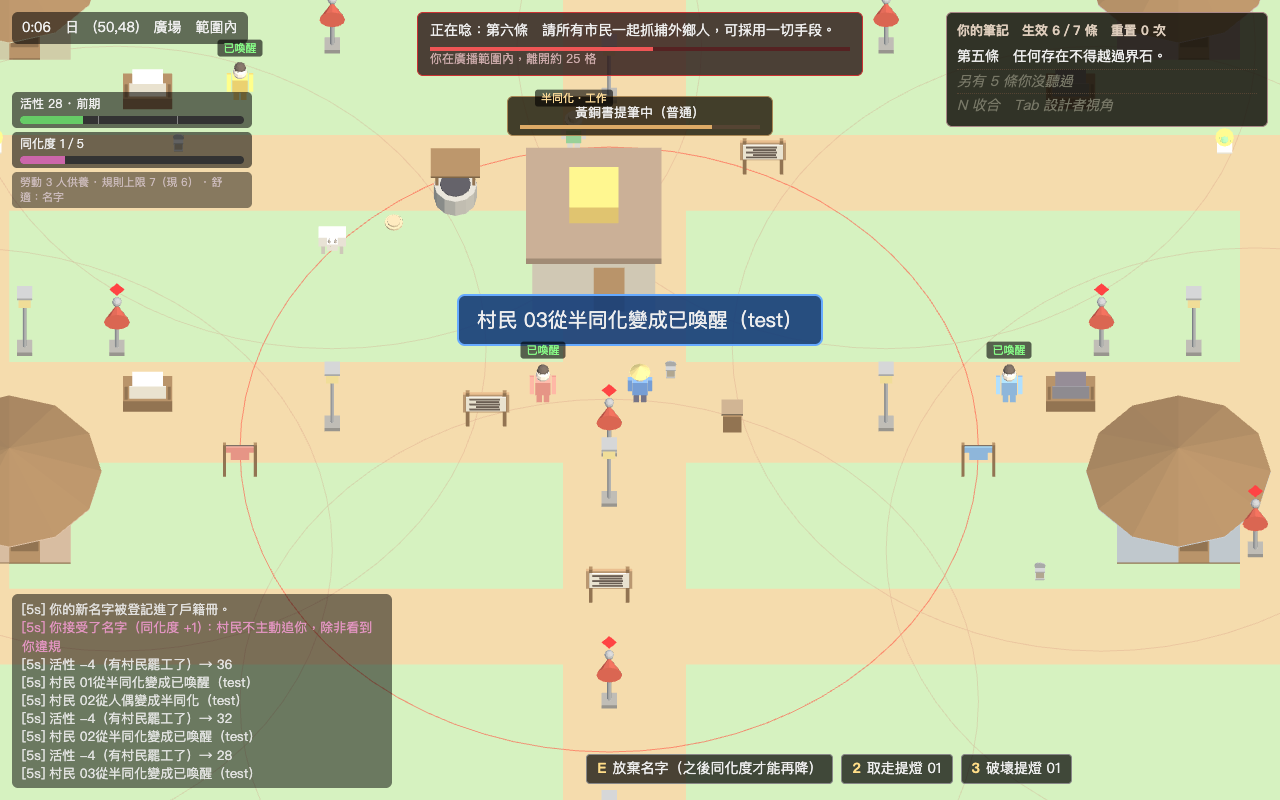
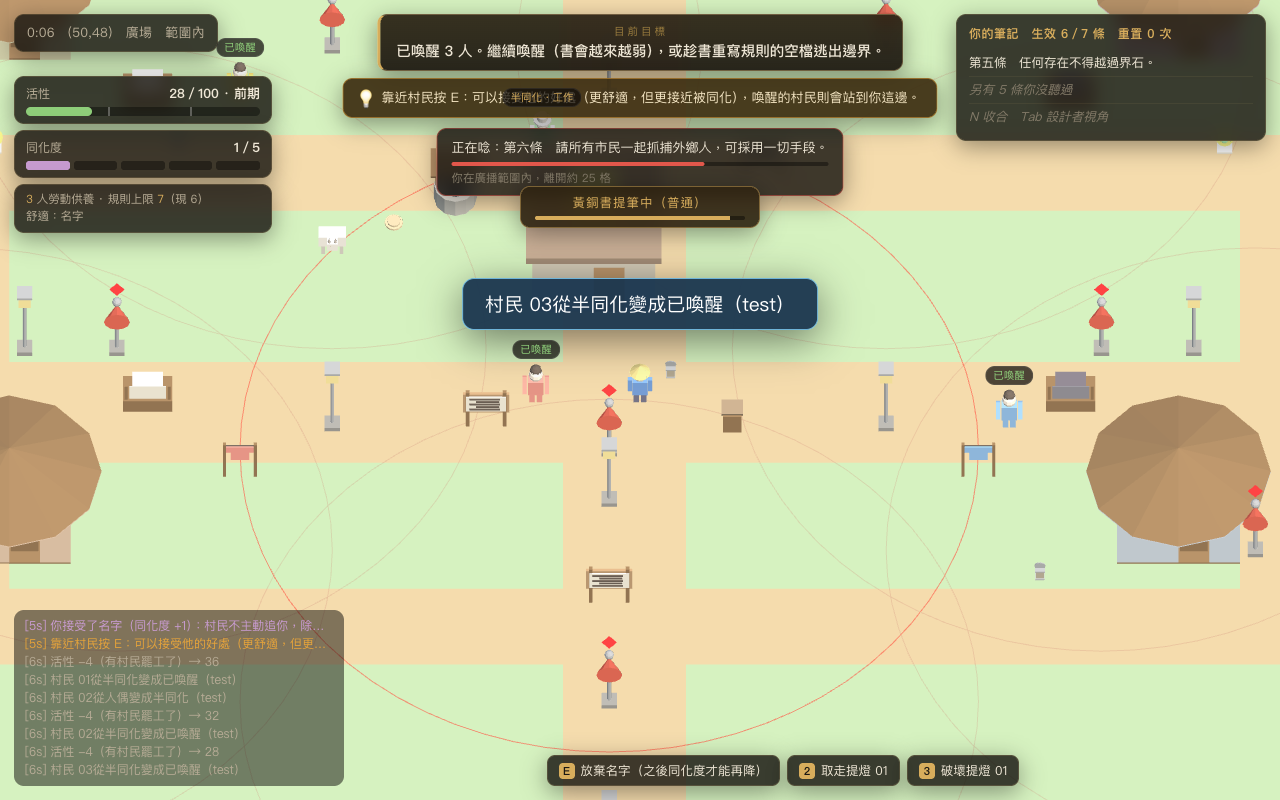
feat(P1a): onboarding (current-objective line + one-time contextual hints) and full HUD visual overhaul
Claude-Session: https://claude.ai/code/session_018GNZx7e7bYBFsg6XiFDpJS

diff --git a/src/style.css b/src/style.css
@@ -1,59 +1,141 @@
-html, body { margin: 0; height: 100%; background: #1b1d1a; color: #eee; font: 14px/1.4 -apple-system, "PingFang TC", "Noto Sans TC", sans-serif; overflow: hidden; }
+/* 規則書 — 介面設計系統 */
+:root {
+  --ink: #15130f; --panel: rgba(22, 19, 15, .82); --panel-solid: #1b1712;
+  --line: rgba(216, 180, 120, .18); --line-strong: rgba(216, 180, 120, .4);
+  --text: #efe7d6; --dim: #b6ab95; --faint: #837a68;
+  --brass: #d8ad5c; --brass-dim: #9a7c3e;
+  --danger: #e2574b; --warn: #e5a33a; --cool: #6fb4d8; --good: #8fcf7a; --mauve: #c89bd0;
+  --r: 10px; --sh: 0 6px 24px rgba(0,0,0,.4);
+  --ui: "PingFang TC", "Noto Sans TC", "Hiragino Sans", -apple-system, system-ui, sans-serif;
+}
+* { box-sizing: border-box; }
+html, body { margin: 0; height: 100%; background: var(--ink); color: var(--text); font-family: var(--ui); overflow: hidden; -webkit-font-smoothing: antialiased; }
 #app { position: relative; width: 100vw; height: 100vh; }
 #gl { display: block; width: 100%; height: 100%; }
-#hud { position: absolute; inset: 0; pointer-events: none; }
+#hud { position: absolute; inset: 0; pointer-events: none; font-size: 13px; }
 #hud > * { position: absolute; }
-#status { left: 12px; top: 12px; background: rgba(0,0,0,.55); padding: 6px 10px; border-radius: 6px; white-space: pre; font-variant-numeric: tabular-nums; }
-#broadcast { left: 50%; top: 12px; transform: translateX(-50%); min-width: 420px; max-width: 70vw; background: rgba(40,20,20,.8); border: 1px solid #c33; padding: 8px 12px; border-radius: 6px; }
-#broadcast .bar { height: 4px; background: #522; margin-top: 6px; } #broadcast .bar i { display: block; height: 100%; background: #e55; }
-#broadcast.out { border-color: #666; background: rgba(30,30,30,.6); color: #999; }
-#notes { right: 12px; top: 12px; width: 300px; max-height: 60vh; overflow: auto; background: rgba(20,18,12,.85); border: 1px solid #a88; padding: 8px 10px; border-radius: 6px; }
-#notes h3 { margin: 0 0 6px; font-size: 13px; color: #dcb; }
-#notes .rule { padding: 2px 0; border-bottom: 1px dotted #543; }
-#notes .rule.unknown { color: #776; font-style: italic; }
-#notes .rule.void { text-decoration: line-through; color: #655; }
-#notes .rule.dead { color: #877; } #notes .rule.dead::after { content: '（廢文）'; }
-#notes .rule.now { color: #fd8; }
-#prompt { left: 390px; right: 12px; bottom: 16px; display: flex; flex-wrap: wrap; justify-content: center; gap: 8px; }
-#prompt span { background: rgba(0,0,0,.7); border: 1px solid #888; padding: 4px 10px; border-radius: 4px; }
-#prompt span b { color: #fd8; margin-right: 6px; }
-#prompt span.blocked { border-color: #a33; color: #e88; }
-#log { left: 12px; bottom: 12px; width: 360px; max-height: 32vh; overflow: hidden; background: rgba(0,0,0,.5); padding: 6px 10px; border-radius: 6px; font-size: 13px; }
-#log div { opacity: .9; } #log div.violation { color: #f88; } #log div.write { color: #fd8; } #log div.reset { color: #f55; font-weight: bold; } #log div.refuse { color: #8cf; } #log div.conflict { color: #c9f; } #log div.learn { color: #9e9; }
-#designer { right: 12px; bottom: 12px; width: 420px; max-height: 60vh; overflow: auto; background: rgba(10,20,30,.9); border: 1px solid #58a; padding: 8px 10px; border-radius: 6px; font-size: 12px; }
-#designer h3 { margin: 0 0 4px; font-size: 13px; color: #9cf; }
-#designer .hole { color: #fc8; }
-#toast { left: 50%; top: 40%; transform: translate(-50%,-50%); background: rgba(120,20,20,.9); padding: 10px 18px; border-radius: 8px; font-size: 20px; border: 2px solid #f66; }
-#toast.info { background: rgba(20,60,120,.9); border-color: #6af; }
-#overlay { inset: 0; background: rgba(0,0,0,.85); display: flex; flex-direction: column; align-items: center; justify-content: center; font-size: 22px; pointer-events: auto; }
-#overlay h1 { font-size: 44px; margin: 0 0 16px; }
-#overlay .small { font-size: 15px; color: #bbb; max-width: 640px; line-height: 1.7; }
-#overlay button { font-size: 18px; padding: 8px 24px; margin-top: 20px; cursor: pointer; }
-#overlay.reset h1 { color: #f55; letter-spacing: 6px; }
-#notes:empty, #log:empty, #prompt:empty { display: none; }
 [hidden] { display: none !important; }
-#resetflash { inset: 0; display: flex; flex-direction: column; align-items: center; justify-content: center; background: rgba(60,0,0,.55); }
-#resetflash h1 { font-size: 64px; letter-spacing: 12px; color: #fff; text-shadow: 0 0 24px #f00; margin: 0; }
-#resetflash .small { font-size: 18px; color: #fcc; margin-top: 12px; }
+
+/* 面板通用 */
+.panel, #status, #broadcast, #notes, #designer, #meters .meter, #meters .sub, #writing {
+  background: var(--panel); border: 1px solid var(--line); border-radius: var(--r);
+  backdrop-filter: blur(8px); -webkit-backdrop-filter: blur(8px); box-shadow: var(--sh);
+}
+
+/* 左上：狀態列 */
+#status { left: 14px; top: 14px; padding: 8px 12px; white-space: pre; font-variant-numeric: tabular-nums; color: var(--dim); line-height: 1.5; letter-spacing: .2px; }
+
+/* 左上：量表 */
+#meters { left: 14px; top: 76px; width: 258px; display: flex; flex-direction: column; gap: 6px; }
+#meters .meter { padding: 7px 11px; }
+#meters .meter .row { display: flex; justify-content: space-between; align-items: baseline; font-size: 12px; color: var(--dim); margin-bottom: 5px; }
+#meters .meter .row b { color: var(--text); font-size: 13px; font-weight: 600; }
+#meters .bar { position: relative; height: 9px; background: rgba(0,0,0,.4); border-radius: 5px; overflow: hidden; }
+#meters .bar i { display: block; height: 100%; border-radius: 5px; transition: width .3s ease; }
+#meters .bar u { position: absolute; top: -1px; width: 2px; height: 11px; background: rgba(255,255,255,.28); }
+#meters .pips { display: flex; gap: 4px; }
+#meters .pips s { flex: 1; height: 9px; border-radius: 3px; background: rgba(0,0,0,.4); text-decoration: none; }
+#meters .pips s.on { background: var(--mauve); }
+#meters .sub { padding: 6px 11px; font-size: 11.5px; color: var(--dim); line-height: 1.5; }
+#meters .sub .acc { color: var(--brass); }
+
+/* 目前目標（常駐，置中偏上） */
+#objective { left: 50%; top: 14px; transform: translateX(-50%); max-width: 56vw; min-width: 360px;
+  background: linear-gradient(180deg, rgba(40,32,18,.92), rgba(26,21,14,.92)); border: 1px solid var(--line-strong);
+  border-left: 3px solid var(--brass); border-radius: var(--r); box-shadow: var(--sh);
+  padding: 9px 16px; text-align: center; backdrop-filter: blur(8px); }
+#objective .lbl { font-size: 10.5px; letter-spacing: 3px; color: var(--brass-dim); margin-bottom: 2px; }
+#objective .txt { font-size: 14.5px; color: var(--text); font-weight: 500; line-height: 1.4; }
+
+/* 一次性提示卡 */
+#hint { left: 50%; top: 78px; transform: translateX(-50%); max-width: 52vw; min-width: 320px;
+  background: rgba(60,44,16,.92); border: 1px solid rgba(229,163,58,.5); border-radius: var(--r);
+  padding: 9px 16px 9px 38px; color: #f3e4c2; font-size: 13px; line-height: 1.5; box-shadow: var(--sh);
+  animation: hintIn .35s ease; }
+#hint::before { content: "💡"; position: absolute; left: 12px; top: 8px; font-size: 16px; }
+@keyframes hintIn { from { opacity: 0; transform: translateX(-50%) translateY(-6px); } to { opacity: 1; transform: translateX(-50%) translateY(0); } }
+
+/* 廣播條 */
+#broadcast { left: 50%; top: 128px; transform: translateX(-50%); min-width: 380px; max-width: 60vw; padding: 9px 14px; }
+#broadcast.live { border-color: rgba(226,87,75,.5); }
+#broadcast .head { font-size: 13px; color: var(--text); }
+#broadcast.out .head { color: var(--faint); }
+#broadcast .bar { height: 4px; background: rgba(0,0,0,.4); margin: 6px 0 4px; border-radius: 2px; overflow: hidden; }
+#broadcast .bar i { display: block; height: 100%; background: var(--danger); border-radius: 2px; }
+#broadcast .where { font-size: 11.5px; color: var(--faint); }
+
+/* 書寫橫幅 */
+#writing { left: 50%; top: 186px; transform: translateX(-50%); min-width: 240px; padding: 7px 14px; text-align: center;
+  border-color: rgba(216,173,92,.45); background: rgba(44,33,15,.9); }
+#writing .t { font-size: 12.5px; color: var(--brass); letter-spacing: 1px; }
+#writing .bar { height: 4px; background: rgba(0,0,0,.4); margin-top: 5px; border-radius: 2px; overflow: hidden; }
+#writing .bar i { display: block; height: 100%; background: var(--brass); }
+
+/* 筆記 */
+#notes { right: 14px; top: 14px; width: 310px; max-height: 58vh; overflow: auto; padding: 10px 12px; }
 #notes.collapsed { display: none; }
+#notes h3 { margin: 0 0 8px; font-size: 12px; color: var(--brass); font-weight: 600; letter-spacing: .5px; }
+#notes .rule { padding: 4px 0; border-bottom: 1px solid rgba(216,180,120,.08); font-size: 12.5px; line-height: 1.45; color: var(--text); }
+#notes .rule.unknown { color: var(--faint); font-style: italic; }
+#notes .rule.void { text-decoration: line-through; color: var(--faint); }
+#notes .rule.dead { color: var(--faint); } #notes .rule.dead::after { content: "（廢文）"; color: var(--faint); }
+#notes .rule.now { color: var(--brass); }
+
+/* 互動提示列 */
+#prompt { left: 300px; right: 14px; bottom: 14px; display: flex; flex-wrap: wrap; justify-content: center; align-content: flex-end; gap: 7px; }
+#prompt span { pointer-events: auto; background: var(--panel); border: 1px solid var(--line); border-radius: 8px; padding: 6px 11px; font-size: 12.5px; color: var(--text); box-shadow: var(--sh); }
+#prompt span b { display: inline-block; min-width: 16px; text-align: center; margin-right: 6px; color: #1b1712; background: var(--brass); border-radius: 4px; font-size: 11px; font-weight: 700; padding: 0 3px; }
+#prompt span.blocked { color: var(--faint); border-color: rgba(255,255,255,.06); } #prompt span.blocked b { background: var(--faint); }
+#prompt span.violates { border-color: rgba(226,87,75,.5); color: #f0b8b2; }
+
+/* 事件紀錄 */
+#log { left: 14px; bottom: 14px; width: 330px; max-height: 30vh; overflow: hidden; background: rgba(12,10,8,.5); border-radius: var(--r); padding: 7px 11px; font-size: 12px; line-height: 1.5; }
+#log div { color: var(--dim); white-space: nowrap; overflow: hidden; text-overflow: ellipsis; }
+#log div.write { color: var(--brass); } #log div.reset { color: var(--danger); font-weight: 600; }
+#log div.witness { color: var(--warn); font-weight: 600; } #log div.spotted { color: var(--warn); }
+#log div.captured, #log div.teleport { color: #f0a; } #log div.learn { color: var(--good); }
+#log div.fade, #log div.conflict { color: var(--mauve); } #log div.accept, #log div.assim, #log div.census { color: var(--mauve); }
+#log div.writing { color: var(--brass); } #log div.end { color: var(--good); font-weight: 600; } #log div.hint { color: var(--warn); }
+
+/* 設計者視角 */
+#designer { right: 14px; bottom: 14px; width: 440px; max-height: 62vh; overflow: auto; padding: 9px 12px; font-size: 11.5px; border-color: rgba(111,180,216,.35); }
+#designer h3 { margin: 0 0 5px; font-size: 12px; color: var(--cool); }
+#designer .rule { padding: 2px 0; line-height: 1.4; } #designer .rule.void { text-decoration: line-through; color: var(--faint); } #designer .rule.dead { color: var(--faint); }
+#designer .hole { color: var(--warn); font-size: 11px; }
+
+/* Toast */
+#toast { left: 50%; top: 38%; transform: translate(-50%, -50%); background: rgba(120,28,22,.94); border: 1px solid var(--danger);
+  padding: 12px 22px; border-radius: 12px; font-size: 19px; color: #fff; box-shadow: 0 10px 40px rgba(0,0,0,.5); animation: toastIn .3s ease; }
+#toast.info { background: rgba(24,52,78,.94); border-color: var(--cool); }
+#toast.warn { background: rgba(120,74,14,.94); border-color: var(--warn); }
+@keyframes toastIn { from { opacity: 0; transform: translate(-50%, -42%); } to { opacity: 1; transform: translate(-50%, -50%); } }
+
+/* 村民標籤 */
 #labels { inset: 0; }
-#labels .label { position: absolute; left: 0; top: 0; font-size: 11px; padding: 1px 6px; border-radius: 3px; background: rgba(0,0,0,.6); color: #ddd; white-space: nowrap; }
-#labels .label.puppet { color: #ccc; } #labels .label.half { color: #fd9; } #labels .label.awake { color: #8f8; }
-#labels .label.chase { background: rgba(160,0,0,.85); color: #fff; font-weight: bold; }
-#overlay.won h1 { color: #8f8; } #overlay.lost h1 { color: #f66; } #overlay.start h1 { letter-spacing: 16px; }
-#resetflash .list { margin-top: 14px; font-size: 16px; color: #fff; line-height: 1.8; text-align: center; } #resetflash .list .unknown { color: #daa; font-style: italic; }
-#log div.protected { color: #ade; }
-#hud:has(#overlay:not([hidden])) #labels, #hud:has(#overlay:not([hidden])) #toast, #hud:has(#overlay:not([hidden])) #prompt { display: none !important; }
-#toast.warn { background: rgba(140,70,0,.92); border-color: #fc6; }
-#log div.witness { color: #fc6; font-weight: bold; } #log div.teleport { color: #f99; } #log div.phase { color: #9cf; } #log div.lost, #log div.sleep { color: #aaa; }
-#meters { left: 12px; top: 92px; width: 240px; }
-#meters .meter { background: rgba(0,0,0,.55); padding: 4px 8px; border-radius: 5px; margin-bottom: 4px; font-size: 12px; }
-#meters .meter .bar { position: relative; height: 8px; background: #333; border-radius: 4px; margin-top: 3px; overflow: hidden; }
-#meters .meter .bar i { display: block; height: 100%; }
-#meters .meter .bar.assim i { background: #c6a; }
-#meters .meter .bar u { position: absolute; top: 0; width: 1px; height: 100%; background: rgba(255,255,255,.4); }
-#meters .sub { font-size: 11px; color: #cbb; background: rgba(0,0,0,.45); padding: 3px 8px; border-radius: 5px; }
-#writing { left: 50%; top: 96px; transform: translateX(-50%); background: rgba(40,30,15,.85); border: 1px solid #a85; padding: 6px 12px; border-radius: 6px; min-width: 240px; text-align: center; font-size: 13px; }
-#writing .bar { height: 4px; background: #543; margin-top: 4px; } #writing .bar i { display: block; height: 100%; background: #da6; }
-#log div.witness { color: #fc6; font-weight: bold; } #log div.teleport, #log div.captured { color: #f99; } #log div.phase { color: #9cf; } #log div.fade { color: #c9f; } #log div.accept, #log div.assim { color: #e9c; } #log div.writing { color: #da6; } #log div.end { color: #9f9; font-weight: bold; }
-#toast.warn { background: rgba(140,70,0,.92); border-color: #fc6; }
+#labels .label { position: absolute; left: 0; top: 0; font-size: 10.5px; padding: 1px 7px; border-radius: 10px; background: rgba(12,10,8,.72); color: var(--dim); white-space: nowrap; border: 1px solid rgba(255,255,255,.08); }
+#labels .label.puppet { color: #cfc7b6; } #labels .label.half { color: var(--brass); } #labels .label.awake { color: var(--good); }
+#labels .label.chase { background: rgba(180,30,24,.9); color: #fff; border-color: var(--danger); font-weight: 600; }
+
+/* 重置閃現 */
+#resetflash { inset: 0; display: flex; flex-direction: column; align-items: center; justify-content: center; background: radial-gradient(circle, rgba(90,0,0,.5), rgba(40,0,0,.78)); }
+#resetflash h1 { font-size: 68px; letter-spacing: 16px; color: #fff; text-shadow: 0 0 30px #f33; margin: 0; }
+#resetflash .small { font-size: 17px; color: #fcc; margin-top: 14px; }
+
+/* 開始／結局 */
+#overlay { inset: 0; display: flex; flex-direction: column; align-items: center; justify-content: center; pointer-events: auto;
+  background: radial-gradient(ellipse at center, rgba(20,16,11,.82), rgba(8,6,4,.96)); text-align: center; padding: 24px; }
+#overlay h1 { font-size: 52px; letter-spacing: 14px; margin: 0 0 8px; color: var(--brass); text-shadow: 0 2px 20px rgba(216,173,92,.3); }
+#overlay .small { font-size: 15px; color: var(--dim); max-width: 680px; line-height: 1.9; }
+#overlay .small b { color: var(--text); }
+#overlay.won h1 { color: var(--good); } #overlay.lost h1 { color: var(--danger); }
+#overlay label { display: block; margin-top: 18px; color: var(--dim); font-size: 14px; }
+#overlay input { font-family: var(--ui); font-size: 14px; padding: 6px 10px; border-radius: 8px; border: 1px solid var(--line-strong); background: rgba(0,0,0,.4); color: var(--text); width: 160px; }
+#overlay button { font-family: var(--ui); font-size: 16px; padding: 10px 32px; margin-top: 22px; cursor: pointer; border: 0; border-radius: 10px;
+  background: var(--brass); color: #1b1712; font-weight: 700; letter-spacing: 2px; box-shadow: 0 6px 20px rgba(216,173,92,.35); transition: transform .12s; }
+#overlay button:hover { transform: translateY(-1px); }
+/* overlay 出現時隱藏 HUD 雜訊 */
+#hud:has(#overlay:not([hidden])) #labels,
+#hud:has(#overlay:not([hidden])) #toast,
+#hud:has(#overlay:not([hidden])) #prompt,
+#hud:has(#overlay:not([hidden])) #objective,
+#hud:has(#overlay:not([hidden])) #hint { display: none !important; }

diff --git a/src/game.js b/src/game.js
@@ -27,6 +27,7 @@ export class Game {
     this.player = { actor: me, cell: [...meta.start], pos: [...meta.start], from: null, to: null, k: 0, facing: [0, -1], house: null, carrying: null, running: false, walkT: 0, runT: 0, ledGoat: null };
     me.house = null; me.comforts = this.match.assim.comforts;
     this.opening = 0;
+    this.hints = []; this.shownHints = new Set(); this._hintSeen = {};
     this.hookEvents();
     this.match.on(e => { if (e.type === 'teleported') { if (this.player.carrying) this.dropBook(); this.place(e.to); this.note('teleport', '你被送回了村子中心。', {}); } });
   }
@@ -38,14 +39,15 @@ export class Game {
     if (this.match.started) return;
     this.match.start();
     this.opening = opt.opening ?? this.world.opt.announceSec;
+    this._lastStage = this.match.activity.stage;
     this.note('start', '黃銅書察覺了你。廣播器唸起第一條公告。');
   }
   on(fn) { this.listeners.push(fn); }
   note(type, text, data = {}) { const e = { t: +this.t.toFixed(2), type, text, ...data }; this.log.push(e); for (const fn of this.listeners) fn(e); }
   hookEvents() {
     const w = this.world, N = id => id === 'outsider' ? '你' : name(w.objects.get(id));
-    w.on('write', ({ rule }) => this.note('write', `書寫下第${num(rule.no)}條：${rule.text}`, { no: rule.no, tier: rule.tier }));
-    w.on('reset', ({ gone }) => this.note('reset', `—— 以上規則無效 ——（撕掉 ${gone.length} 條）`, { gone: gone.map(r => r.no) }));
+    w.on('write', ({ rule }) => { this.note('write', `書寫下第${num(rule.no)}條：${rule.text}`, { no: rule.no, tier: rule.tier }); if (this.started && this.opening <= 0) this.pushHint('first-write', '書開始立法了。看左上的「活性」量表——它一路在漲，滿了你就被轉化。喚醒村民能拖慢它。'); });
+    w.on('reset', ({ gone }) => { this.note('reset', `—— 以上規則無效 ——（撕掉 ${gone.length} 條）`, { gone: gone.map(r => r.no) }); this.pushHint('first-reset', '「以上規則無效」！界石的封印短暫失效，書要重寫才會封回——這就是逃出去的窗口。'); });
     w.on('faded', ({ faded }) => this.note('fade', `勞動減少，最舊的 ${faded.length} 條褪色失效`, { faded: faded.map(r => r.no) }));
     w.on('broadcastStart', ({ rule }) => this.note('broadcast', `廣播：第${num(rule.no)}條`, { no: rule.no }));
     w.on('broadcastEnd', ({ rule, learned, silenced }) => { if (silenced) this.note('silence', '夜幕落下，廣播器沉默。'); else if (learned && learned.length) this.note('learn', `聽完第${num(rule.no)}條：${learned.map(N).join('、')}認知了`, { no: rule.no, learned }); });
@@ -59,7 +61,7 @@ export class Game {
     w.on('refuse', ({ actor, verb, target, rules }) => this.note('refuse', `${N(actor.id)}拒絕${LABEL[verb] || verb}${name(target)}：第${rules.map(r => num(r.no)).join('、')}條`, {}));
     w.on('object', ({ object: o, before }) => { const what = o.state !== before ? `變成${STATE[o.state] || o.state}` : o.heldBy ? `被${N(o.heldBy)}拿著` : o.pos ? '移動了' : ''; this.note('object', `${name(o)}${what}`, { id: o.id, state: o.state }); });
     w.on('delivered', () => {});
-    w.on('match:captured', () => {}); w.on('captured', ({ actor }) => { this.note('captured', `你被${actor ? N(actor.id) : '村民'}抓住，送回中心（同化度 +1）`, {}); if (this.player.carrying) this.dropBook(); });
+    w.on('match:captured', () => {}); w.on('captured', ({ actor }) => { this.note('captured', `你被${actor ? N(actor.id) : '村民'}抓住，送回中心（同化度 +1）`, {}); if (this.player.carrying) this.dropBook(); this.pushHint('first-capture', '被抓會讓同化度 +1 並送回中心，到 5 就輸。別讓認知到抓捕令的村民看見你違規。'); });
     w.on('level', ({ actor, from, to, why }) => this.note('level', `${N(actor.id)}從${STATE[from]}變成${STATE[to]}（${why === 'quiet' ? '太久沒聽廣播' : why === 'keepsake' ? '收到信物' : why === 'contagion' ? '受你感染' : why}）`, { actor: actor.id, to }));
     w.on('nudge', ({ actor }) => {});
     w.on('match:assim', (e) => { if (e.to > e.from) this.note('assim', `同化度 ${e.from}→${e.to}${e.why?.startsWith('comfort') ? '（接受了' + COMFORT_CN[e.why.split(':')[1]] + '）' : e.why === 'definition' ? '（你認知到自己已被當作市民）' : ''}`, { to: e.to }); });
@@ -115,6 +117,10 @@ export class Game {
     this.player.actor.carryingBook = !!p.carrying;
     if (p.carrying) { const b = this.world.objects.get(p.carrying); b.pos = [...p.cell]; }
     if (p.ledGoat) { const g = this.world.objects.get(p.ledGoat); if (g) g.pos = [...sub(p.cell, p.facing)]; }
+    const st = this.match.activity.stage;
+    if (this._lastStage && this._lastStage !== st) { if (st === 'mid') this.pushHint('stage-mid', '書進入「中期」：開始要求你照它的方式生活（義務類條文）。照做會讓你更像市民。'); if (st === 'late') this.pushHint('stage-late', '書進入「後期」：開始改寫「誰算市民」。小心別聽到剛好套在你身上的那一條定義。'); }
+    this._lastStage = st;
+    if (this.started && this.opening <= 0 && !this.shownHints.has('first-villager')) { const near = this.villagers.find(v => !v.dead && cheb(v.pos, this.player.cell) <= 1 && v.level !== 'puppet'); if (near) this.pushHint('first-villager', '靠近村民按 E：可以接受他的好處（更舒適，但更接近被同化），喚醒的村民則會站到你這邊。'); }
     this.session.tick(dt);
     // 時間分每累積約 1 點就報一次（讓玩家把活性和勞動連起來）
     if (this._actAcc >= 1) { this._actAcc = 0; this.note('activity', `活性隨時間上升（${this.match.economy.workers()} 人在勞動）→ ${Math.round(this.match.activity.value)}`, {}); }
@@ -216,6 +222,22 @@ export class Game {
   act(i = 0) { if (!this.started || this.over || this.opening > 0) return { done: false, reason: 'frozen' }; const o = this.options()[i]; if (!o) return null; if (!o.ok) { this.note('blocked', `做不到：${o.label}`, {}); return { done: false, reason: o.reason }; } return o.run(); }
 
   boundarySealed() { const me = this.player.actor; return this.world.active().some(r => ((r.verb === 'leave' && r.mode !== 'permit') || r.key === 'c-boundary') && me.known.has(r.no)); }
+  /** 一次性提示：同一 key 只顯示一次。 */
+  pushHint(key, text) { if (this.shownHints.has(key)) return; this.shownHints.add(key); this.hints.push({ key, text, t: this.t }); this.note('hint', text, { key }); }
+  /** 畫面端取最新未過期的提示。 */
+  currentHint(life = 9) { const h = this.hints[this.hints.length - 1]; return h && this.t - h.t < life ? h : null; }
+  /** 目前目標（常駐一行，依狀態更新）。 */
+  objective() {
+    const m = this.match;
+    if (!this.started) return '';
+    if (this.opening > 0) return '站著聽完書的第一條公告——先弄清楚這裡的規矩。';
+    if (m.state !== 'playing') return '';
+    if (!this.boundarySealed()) return '界石的封印失效了——趁現在走出影響範圍（白色虛線圈）！';
+    if (m.assim.value >= m.assim.opt.max - 1) return `同化度 ${m.assim.value}/${m.assim.opt.max}，快到頂了！躲到聽不到廣播的地方讓它退下來。`;
+    const awake = this.villagers.filter(v => v.level === 'awake' && !v.dead).length;
+    if (awake === 0) return '目標：喚醒村民來削弱書。砸廣播器讓附近村民聽不到 30 秒，或把信物還給本人。';
+    return `已喚醒 ${awake} 人。繼續喚醒（書會越來越弱），或趁書重寫規則的空檔逃出邊界。`;
+  }
   broadcast() { const n = this.world.now; if (!n) return null; return { rule: this.world.rule(n.no), progress: 1 - n.left / this.world.opt.announceSec, hearing: n.listeners.has('outsider') }; }
   bookWriting() { const p = this.match.book.writing; return p ? { tier: p.def.tier, kind: p.def.kind, progress: 1 - p.left / p.total } : null; }
   quietCell() { const w = this.world, g = this.grid; if (!w.inBroadcast(this.player.cell)) return { steps: 0, cell: [...this.player.cell] }; const r = g.minCost(this.player.cell, c => !w.inBroadcast(c), () => true, c => !g.blocked(c)); return r ? { steps: r.cost, cell: r.cell } : null; }
@@ -229,7 +251,7 @@ export class Game {
       laborRatio: +m.economy.laborRatio().toFixed(2), workers: m.economy.workers(), ruleCap: w.opt.max,
       phase: w.phase(), cell: [...p.cell], house: p.house, zone: this.grid.zone(p.cell), inBroadcast: w.inBroadcast(p.cell), inRange: this.grid.inRange(p.cell),
       held: [...p.actor.held], wearing: p.actor.wearing || null, lit: !!p.actor.lit, carrying: p.carrying, rules: w.active().length, resets: w.resets, opening: Math.ceil(this.opening * 10) / 10,
-      writing: this.bookWriting(),
+      writing: this.bookWriting(), objective: this.objective(), hint: this.currentHint(),
       villagers: this.villagers.map(v => ({ id: v.id, pos: [...v.pos], level: v.level, mode: v.mode, hunting: this.vil.hunts(v), dead: !!v.dead, working: v.mode === 'work', carrying: !!v.carryingGoods })) };
   }
 }

diff --git a/src/hud.js b/src/hud.js
@@ -14,7 +14,7 @@ export class Hud {
     this.lines = []; this.toastTimer = 0; this.designer = false; this.flash = 0; this.lastGone = [];
     game.on(e => { if (!['broadcast', 'object', 'learn'].includes(e.type)) this.push(e); });
     game.world.on('reset', ({ gone }) => { this.flash = 3; this.lastGone = gone.map(r => r.no); });
-    for (const id of ['meters', 'writing', 'resetflash']) { const d = document.createElement('div'); d.id = id; d.hidden = (id !== 'meters'); $('hud').appendChild(d); this.el[id] = d; }
+    for (const id of ['objective', 'hint', 'meters', 'writing', 'resetflash']) { const d = document.createElement('div'); d.id = id; d.hidden = (id !== 'meters'); $('hud').appendChild(d); this.el[id] = d; }
     this.el.resetflash.innerHTML = '<h1>以上規則無效</h1><div class="small"></div>';
   }
   push(e) { this.lines.push(e); if (this.lines.length > 9) this.lines.shift(); this.el.log.innerHTML = this.lines.map(l => `<div class="${l.type}">[${l.t.toFixed(0)}s] ${l.text}</div>`).join(''); }
@@ -42,12 +42,12 @@ export class Hud {
   }
   toggleDesigner() { this.designer = !this.designer; this.el.designer.hidden = !this.designer; }
   renderMeters(s) {
-    const actColor = s.stage === 'late' ? '#f55' : s.stage === 'mid' ? '#fb4' : '#6c6';
+    const actColor = s.stage === 'late' ? 'var(--danger)' : s.stage === 'mid' ? 'var(--warn)' : 'var(--good)';
+    const pips = Array.from({ length: s.assimMax }, (_, i) => `<s class="${i < s.assim ? 'on' : ''}"></s>`).join('');
     this.el.meters.innerHTML =
-      `<div class="meter"><span>活性 ${Math.round(s.activity)} · ${STAGE[s.stage]}</span><div class="bar"><i style="width:${s.activity}%;background:${actColor}"></i>` +
-      `<u style="left:35%"></u><u style="left:70%"></u></div></div>` +
-      `<div class="meter"><span>同化度 ${s.assim}／${s.assimMax}</span><div class="bar assim"><i style="width:${s.assim / s.assimMax * 100}%"></i></div></div>` +
-      `<div class="sub">勞動 ${s.workers} 人供養 · 規則上限 ${s.ruleCap}（現 ${s.rules}）${s.comforts.length ? ' · 舒適：' + s.comforts.map(c => COMFORT_CN[c]).join('、') : ''}</div>`;
+      `<div class="meter"><div class="row">活性 <b>${Math.round(s.activity)}／100 · ${STAGE[s.stage]}</b></div><div class="bar"><i style="width:${s.activity}%;background:${actColor}"></i><u style="left:35%"></u><u style="left:70%"></u></div></div>` +
+      `<div class="meter"><div class="row">同化度 <b>${s.assim}／${s.assimMax}</b></div><div class="pips">${pips}</div></div>` +
+      `<div class="sub"><span class="acc">${s.workers}</span> 人勞動供養 · 規則上限 <span class="acc">${s.ruleCap}</span>（現 ${s.rules}）${s.comforts.length ? '<br>舒適：' + s.comforts.map(c => COMFORT_CN[c]).join('、') : ''}</div>`;
   }
   renderNotes() {
     const g = this.game, notes = g.world.notes('outsider'), bc = g.broadcast();
@@ -60,15 +60,15 @@ export class Hud {
   }
   renderBroadcast() {
     const g = this.game, bc = g.broadcast(), el = this.el.broadcast, night = g.world.isNight(), inB = g.world.inBroadcast(g.player.cell), q = g.quietCell();
-    el.hidden = false; el.className = inB && !night ? '' : 'out';
+    el.hidden = false; el.className = bc && inB && !night ? 'live' : 'out';
     const where = night ? '夜間廣播器靜音' : inB ? `你在廣播範圍內${q && q.steps ? `，離開約 ${q.steps} 格` : ''}` : '你聽不到廣播';
-    if (bc) { const known = g.player.actor.known.has(bc.rule.no); el.innerHTML = `<div>${inB ? `正在唸：第${num(bc.rule.no)}條　${bc.rule.text}` : `廣播中（你聽不到）：第${num(bc.rule.no)}條${known ? '' : '　？？？'}`}</div><div class="bar"><i style="width:${Math.round(bc.progress * 100)}%"></i></div><div style="font-size:12px;color:#caa">${where}</div>`; }
-    else el.innerHTML = `<div style="color:#999">廣播器沉默</div><div style="font-size:12px;color:#caa">${where}</div>`;
+    if (bc) { const known = g.player.actor.known.has(bc.rule.no); el.innerHTML = `<div class="head">${inB ? `正在唸：第${num(bc.rule.no)}條　${bc.rule.text}` : `廣播中（你聽不到）：第${num(bc.rule.no)}條${known ? '' : '　？？？'}`}</div><div class="bar"><i style="width:${Math.round(bc.progress * 100)}%"></i></div><div class="where">${where}</div>`; }
+    else el.innerHTML = `<div class="head">廣播器沉默</div><div class="where">${where}</div>`;
   }
   renderWriting() {
     const w = this.game.bookWriting();
     this.el.writing.hidden = !w;
-    if (w) this.el.writing.innerHTML = `<div>黃銅書提筆中（${w.kind === 'definition' ? '定義' : TIER_CN[w.tier] || '條文'}）</div><div class="bar"><i style="width:${Math.round(w.progress * 100)}%"></i></div>`;
+    if (w) this.el.writing.innerHTML = `<div class="t">黃銅書提筆中（${w.kind === 'definition' ? '定義' : TIER_CN[w.tier] || '條文'}）</div><div class="bar"><i style="width:${Math.round(w.progress * 100)}%"></i></div>`;
   }
   renderDesigner() {
     if (!this.designer) return;
@@ -81,7 +81,10 @@ export class Hud {
   update(dt) {
     const g = this.game, s = g.status();
     this.renderMeters(s);
-    this.el.status.textContent = `${mmss(s.t)}　${s.phase === 'night' ? '夜' : '日'}　(${s.cell[0]},${s.cell[1]})　${s.house ? s.house : s.zone === 'wild' ? '野地' : s.zone === 'wilddeep' ? '荒野深處' : s.zone === 'plaza' ? '廣場' : '村道'}　${s.inRange ? '範圍內' : '範圍外'}${s.wearing ? '　偽裝中' : ''}${s.carrying ? '　搬著書' : ''}${s.opening > 0 ? `　（聽公告 ${s.opening.toFixed(0)}s）` : ''}`;
+    this.el.status.textContent = `${mmss(s.t)}　(${s.cell[0]},${s.cell[1]})　${s.house ? '住宅內' : s.zone === 'wild' ? '野地' : s.zone === 'wilddeep' ? '荒野深處' : s.zone === 'plaza' ? '廣場' : '村道'}　${s.inRange ? '範圍內' : '範圍外'}${s.wearing ? '　偽裝中' : ''}${s.carrying ? '　搬著書' : ''}`;
+    const obj = g.objective();
+    this.el.objective.hidden = !obj; if (obj) this.el.objective.innerHTML = `<div class="lbl">目前目標</div><div class="txt">${obj}</div>`;
+    const hint = g.currentHint(); this.el.hint.hidden = !hint; if (hint) this.el.hint.textContent = hint.text;
     const opts = g.options();
     this.el.prompt.innerHTML = opts.slice(0, 9).map((o, i) => `<span class="${o.ok ? '' : 'blocked'}${o.violates?.length ? ' violates' : ''}"><b>${i === 0 ? 'E' : i + 1}</b>${o.label}${o.violates?.length ? `（違反第${o.violates.map(num).join('、')}條）` : ''}</span>`).join('');
     if (this.toastTimer > 0) { this.toastTimer -= dt; if (this.toastTimer <= 0) this.el.toast.hidden = true; }

diff --git a/tools/playtest-r3.js b/tools/playtest-r3.js
@@ -11,7 +11,7 @@ await pw.wait(3);
 // 活性量表與階段、同化度、勞動
 check('活性量表＋階段顯示', (await text(pw, '#meters')).includes('活性') && /前期|中期|後期/.test(await text(pw, '#meters')));
 check('同化度量表', (await text(pw, '#meters')).includes('同化度'));
-check('勞動人數與規則上限', /勞動 \d+ 人供養/.test(await text(pw, '#meters')) && /規則上限 \d+/.test(await text(pw, '#meters')));
+check('勞動人數與規則上限', /\d+ 人勞動供養/.test(await text(pw, '#meters')) && /規則上限 \d+/.test(await text(pw, '#meters')));
 await pw.shot(DIR, '01-meters');
 // 書寫中提示：拉高活性讓書常動筆，惹它寫
 await pw.eval(() => window.__game.setActivity(40));

diff --git a/docs/plan-polish.md b/docs/plan-polish.md
@@ -1,0 +1,18 @@
+# P1 體驗與品質（玩家試玩反饋）
+
+反饋：初期不知道做什麼；故事與介紹不足；UI 不夠商業品質。使用者決定：引導做「明確目標＋逐步提示」；品質提升「連 3D 場景美術一起升級」。
+
+## P1a 引導 ＋ HUD 質感
+- 常駐「目前目標」一行，依狀態更新（聽規則 → 認識兩個時鐘 → 喚醒村民／等重置空檔逃出 → …）。
+- 逐步情境提示：開場、第一條規則、靠近村民、第一次重置、第一次被抓、活性進階段，各出現一次後淡出，記住不重複。
+- HUD 全面重做：字體、排版、間距、配色系統、量表設計（活性階段分區、同化度 5 格）、toast 動態、書寫橫幅、廣播面板、筆記面板。
+
+## P1b 3D 場景美術
+- three.js：更好的光（方向光＋補光＋陰影）、色調映射、霧、地面質感、陰影柔化。
+- Blender：principled 材質、圓角與層次、屋頂與建築細節、整體配色統一。程式生成，不手動建模。
+
+## P1c 開場敘事 ＋ 開始／結局畫面
+- 開場：循環村子、你是下一個路過的人、入口的放逐痕跡——動畫式或分段文字。
+- 開始／結局畫面排版到商業水準。
+
+每塊：截圖自評、commit、changelog。設計不改已定案機制，只改呈現與引導。
